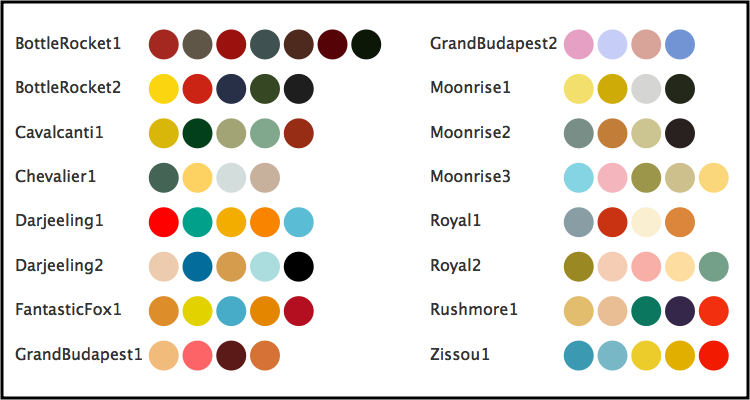
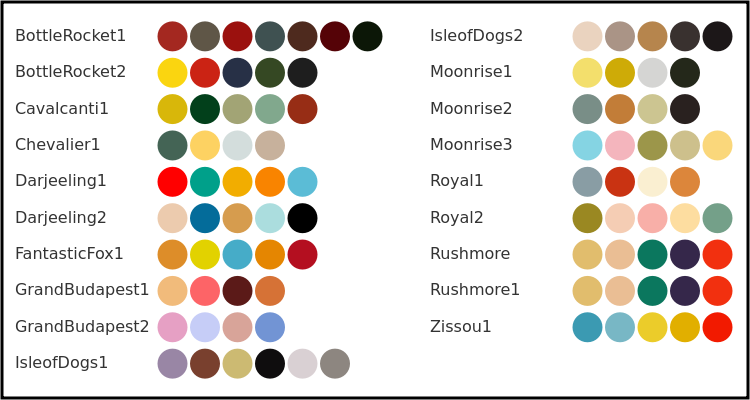
Update palettes following changes in R package

diff --git a/wesanderson.js b/wesanderson.js
@@ -1,22 +1,5 @@
 // palettes from https://github.com/karthik/wesanderson
-var wes_palettes = {
- "BottleRocket1": [ "#A42820", "#5F5647", "#9B110E", "#3F5151", "#4E2A1E", "#550307", "#0C1707" ],
-"BottleRocket2": [ "#FAD510", "#CB2314", "#273046", "#354823", "#1E1E1E" ],
-"Cavalcanti1": [ "#D8B70A", "#02401B", "#A2A475", "#81A88D", "#972D15" ],
-"Chevalier1": [ "#446455", "#FDD262", "#D3DDDC", "#C7B19C" ],
-"Darjeeling1": [ "#FF0000", "#00A08A", "#F2AD00", "#F98400", "#5BBCD6" ],
-"Darjeeling2": [ "#ECCBAE", "#046C9A", "#D69C4E", "#ABDDDE", "#000000" ],
-"FantasticFox1": [ "#DD8D29", "#E2D200", "#46ACC8", "#E58601", "#B40F20" ],
-"GrandBudapest1": [ "#F1BB7B", "#FD6467", "#5B1A18", "#D67236" ],
-"GrandBudapest2": [ "#E6A0C4", "#C6CDF7", "#D8A499", "#7294D4" ],
-"Moonrise1": [ "#F3DF6C", "#CEAB07", "#D5D5D3", "#24281A" ],
-"Moonrise2": [ "#798E87", "#C27D38", "#CCC591", "#29211F" ],
-"Moonrise3": [ "#85D4E3", "#F4B5BD", "#9C964A", "#CDC08C", "#FAD77B" ],
-"Royal1": [ "#899DA4", "#C93312", "#FAEFD1", "#DC863B" ],
-"Royal2": [ "#9A8822", "#F5CDB4", "#F8AFA8", "#FDDDA0", "#74A089" ],
-"Rushmore1": [ "#E1BD6D", "#EABE94", "#0B775E", "#35274A", "#F2300F" ],
-"Zissou1": [ "#3B9AB2", "#78B7C5", "#EBCC2A", "#E1AF00", "#F21A00" ] 
-};
+var wes_palettes = {"BottleRocket1":["#A42820","#5F5647","#9B110E","#3F5151","#4E2A1E","#550307","#0C1707"],"BottleRocket2":["#FAD510","#CB2314","#273046","#354823","#1E1E1E"],"Cavalcanti1":["#D8B70A","#02401B","#A2A475","#81A88D","#972D15"],"Chevalier1":["#446455","#FDD262","#D3DDDC","#C7B19C"],"Darjeeling1":["#FF0000","#00A08A","#F2AD00","#F98400","#5BBCD6"],"Darjeeling2":["#ECCBAE","#046C9A","#D69C4E","#ABDDDE","#000000"],"FantasticFox1":["#DD8D29","#E2D200","#46ACC8","#E58601","#B40F20"],"GrandBudapest1":["#F1BB7B","#FD6467","#5B1A18","#D67236"],"GrandBudapest2":["#E6A0C4","#C6CDF7","#D8A499","#7294D4"],"IsleofDogs1":["#9986A5","#79402E","#CCBA72","#0F0D0E","#D9D0D3","#8D8680"],"IsleofDogs2":["#EAD3BF","#AA9486","#B6854D","#39312F","#1C1718"],"Moonrise1":["#F3DF6C","#CEAB07","#D5D5D3","#24281A"],"Moonrise2":["#798E87","#C27D38","#CCC591","#29211F"],"Moonrise3":["#85D4E3","#F4B5BD","#9C964A","#CDC08C","#FAD77B"],"Royal1":["#899DA4","#C93312","#FAEFD1","#DC863B"],"Royal2":["#9A8822","#F5CDB4","#F8AFA8","#FDDDA0","#74A089"],"Rushmore":["#E1BD6D","#EABE94","#0B775E","#35274A","#F2300F"],"Rushmore1":["#E1BD6D","#EABE94","#0B775E","#35274A","#F2300F"],"Zissou1":["#3B9AB2","#78B7C5","#EBCC2A","#E1AF00","#F21A00"]};
 // helper function: call with a palette name and (optionally) some number of colors
 var wes_palette = function(palette, n_colors) {
     var palette_names = Object.keys(wes_palettes);

diff --git a/wesanderson.css b/wesanderson.css
@@ -43,6 +43,17 @@
 .GrandBudapest2.q1{fill:rgb(198,205,247)}
 .GrandBudapest2.q2{fill:rgb(216,164,153)}
 .GrandBudapest2.q3{fill:rgb(114,148,212)}
+.IsleofDogs1.q0{fill:rgb(153,134,165)}
+.IsleofDogs1.q1{fill:rgb(121,64,46)}
+.IsleofDogs1.q2{fill:rgb(204,186,114)}
+.IsleofDogs1.q3{fill:rgb(15,13,14)}
+.IsleofDogs1.q4{fill:rgb(217,208,211)}
+.IsleofDogs1.q5{fill:rgb(141,134,128)}
+.IsleofDogs2.q0{fill:rgb(234,211,191)}
+.IsleofDogs2.q1{fill:rgb(170,148,134)}
+.IsleofDogs2.q2{fill:rgb(182,133,77)}
+.IsleofDogs2.q3{fill:rgb(57,49,47)}
+.IsleofDogs2.q4{fill:rgb(28,23,24)}
 .Moonrise1.q0{fill:rgb(243,223,108)}
 .Moonrise1.q1{fill:rgb(206,171,7)}
 .Moonrise1.q2{fill:rgb(213,213,211)}
@@ -65,6 +76,11 @@
 .Royal2.q2{fill:rgb(248,175,168)}
 .Royal2.q3{fill:rgb(253,221,160)}
 .Royal2.q4{fill:rgb(116,160,137)}
+.Rushmore.q0{fill:rgb(225,189,109)}
+.Rushmore.q1{fill:rgb(234,190,148)}
+.Rushmore.q2{fill:rgb(11,119,94)}
+.Rushmore.q3{fill:rgb(53,39,74)}
+.Rushmore.q4{fill:rgb(242,48,15)}
 .Rushmore1.q0{fill:rgb(225,189,109)}
 .Rushmore1.q1{fill:rgb(234,190,148)}
 .Rushmore1.q2{fill:rgb(11,119,94)}

diff --git a/NEWS.md b/NEWS.md
@@ -1,3 +1,13 @@
+## wesandersonJS 0.7.1 (2018-05-01)
+
+### New features
+
+- Updated palettes to follow changes in
+  [Karthik Ram](http://inundata.org/)'s
+  [wesanderson R package](https://github.com/karthik/wesanderson).
+  In particular, two new palettes for Isle of Dogs.
+
+
 ## wesandersonJS 0.6.3 (2017-05-07)
 
 ### New features
